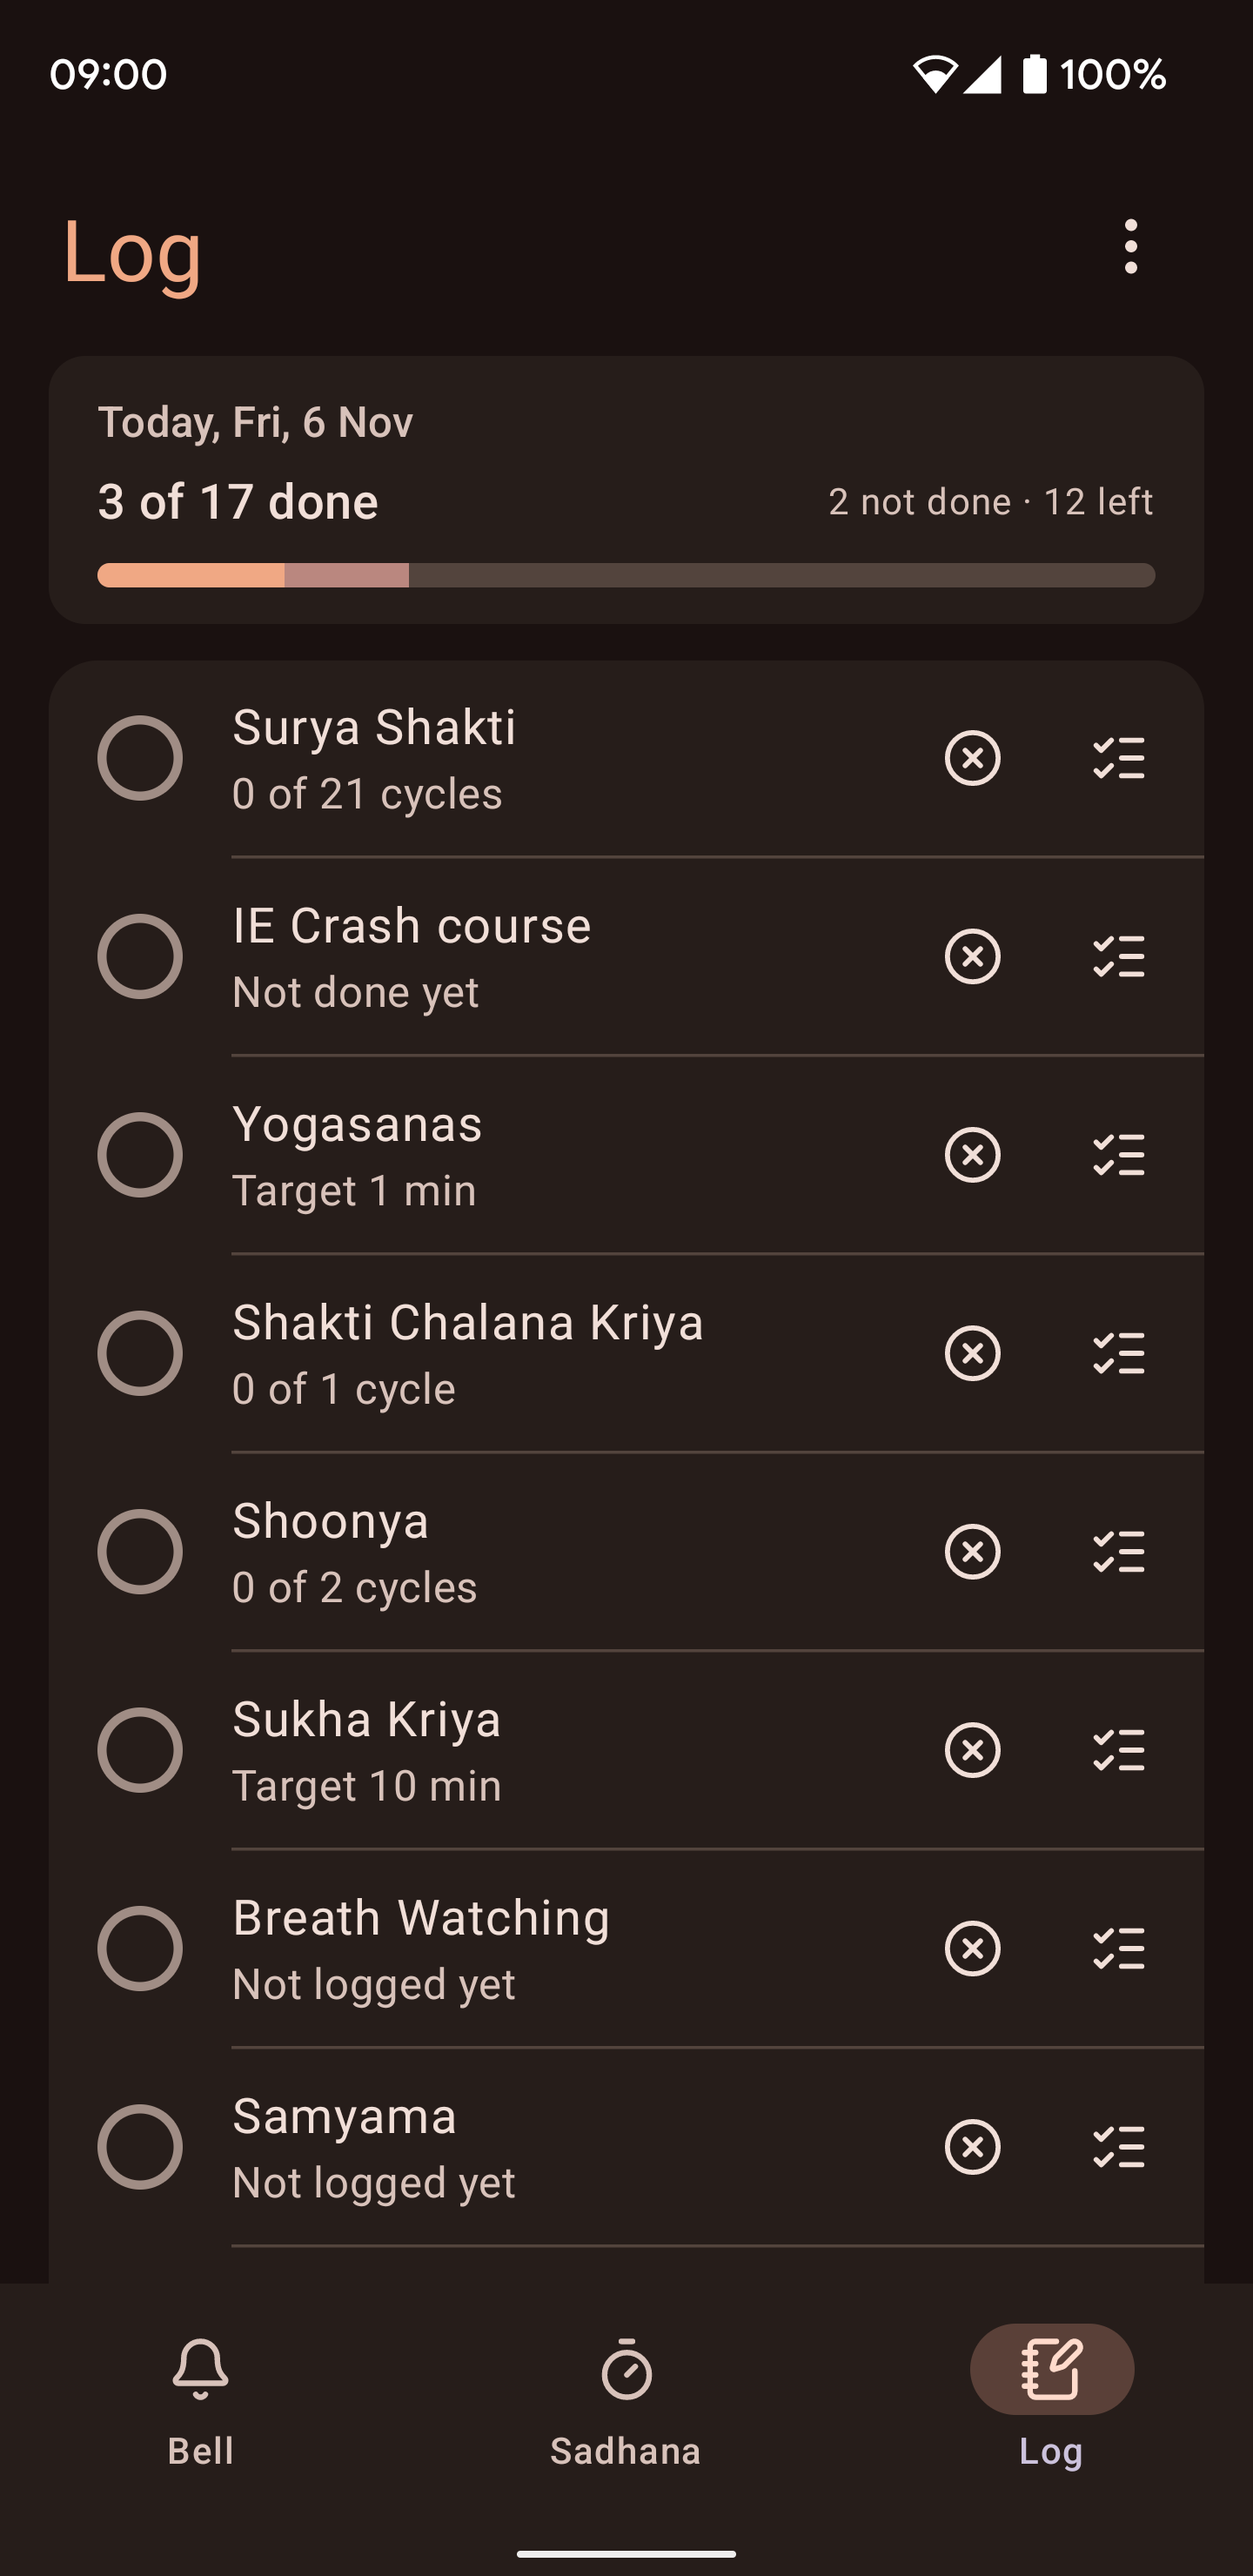
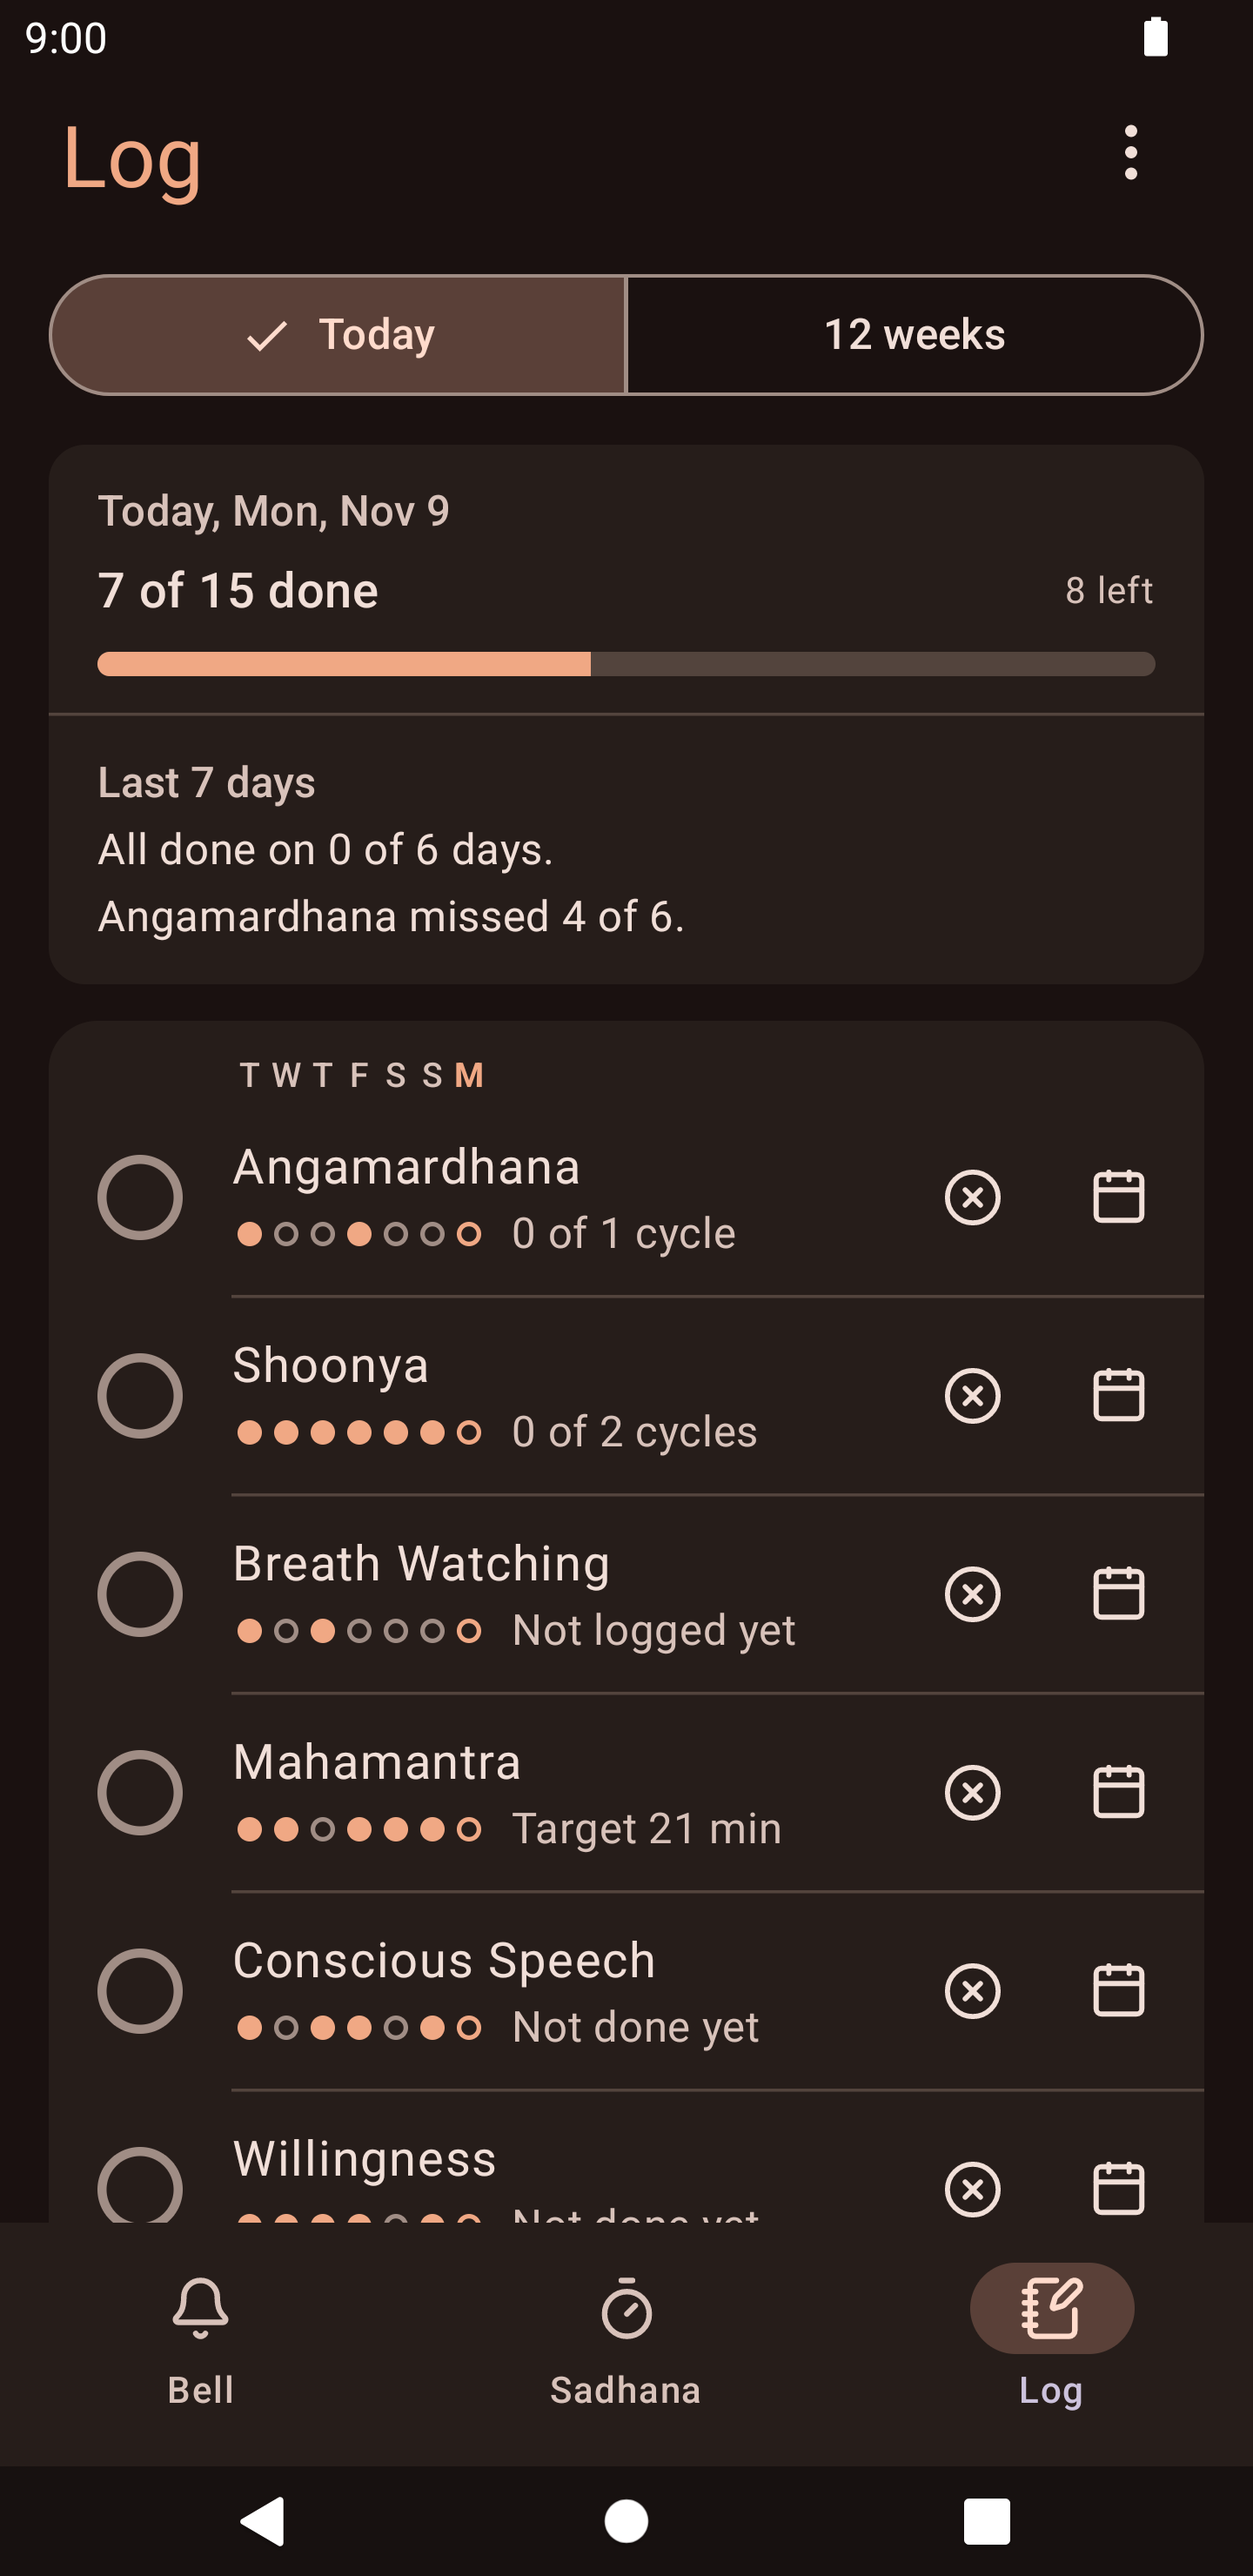
Add Log screenshots of the Today, 12 weeks and practice history views
The store listing and the README now show the analytics in 1.5.0.
The practice names are real, and the entries are made up.

diff --git a/README.md b/README.md
@@ -9,9 +9,14 @@ Sati is an Android app that rings a bell now and then during your waking hours. 
   <img src="fastlane/metadata/android/en-US/images/phoneScreenshots/8.png" width="180" alt="The sadhana editor: a name, two 30-minute stages with labels, and a settling time">
 </p>
 <p>
-  <img src="fastlane/metadata/android/en-US/images/phoneScreenshots/9.png" width="180" alt="The Log tab: a summary card with 3 of 17 done, and practices in short rows with their progress">
+  <img src="fastlane/metadata/android/en-US/images/phoneScreenshots/9.png" width="180" alt="The Log tab, Today view: a summary card, and each practice in a row with dots for the last 7 days">
   <img src="fastlane/metadata/android/en-US/images/phoneScreenshots/10.png" width="180" alt="Logging a practice: minutes and seconds fields, focus buttons from 1 to 10, and a Not done button">
   <img src="fastlane/metadata/android/en-US/images/phoneScreenshots/11.png" width="180" alt="Manage practices: each practice with its measure, target and repeat schedule, and a handle to drag it">
+</p>
+<p>
+  <img src="fastlane/metadata/android/en-US/images/phoneScreenshots/12.png" width="180" alt="The 12 weeks view: two sentences about the trend, and a row of 12 weekly squares for each practice">
+  <img src="fastlane/metadata/android/en-US/images/phoneScreenshots/13.png" width="180" alt="The history of one practice: a summary card and a month calendar of done and missed days">
+  <img src="fastlane/metadata/android/en-US/images/phoneScreenshots/14.png" width="180" alt="The weekly charts of one practice: minutes per week and average focus over 12 weeks">
 </p>
 
 ## Features
